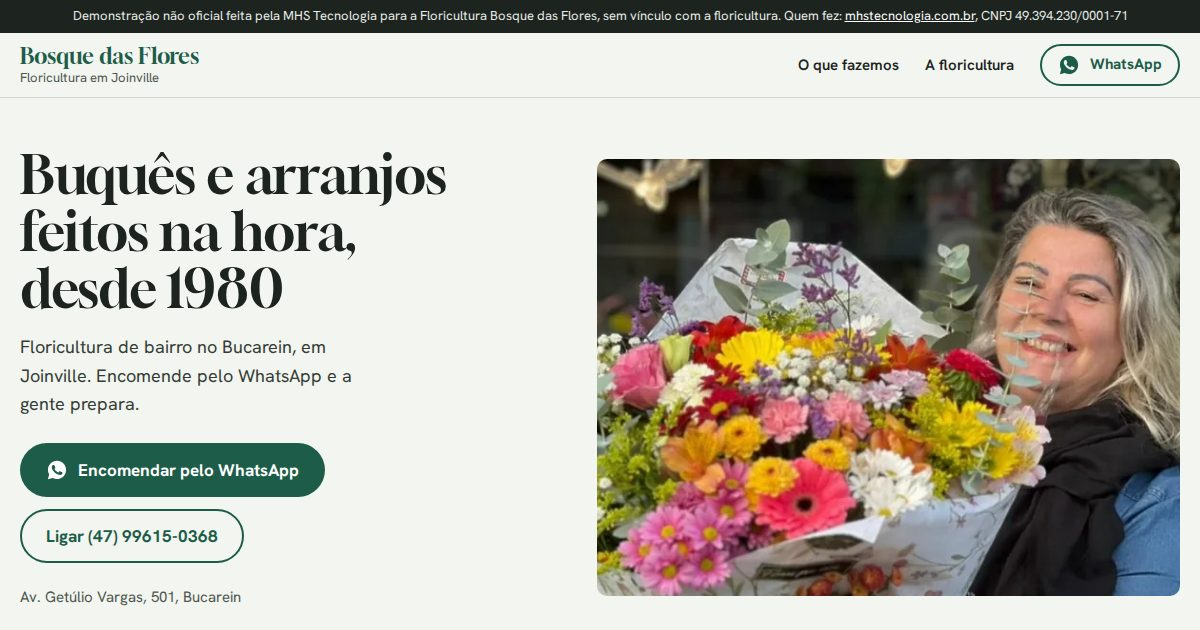
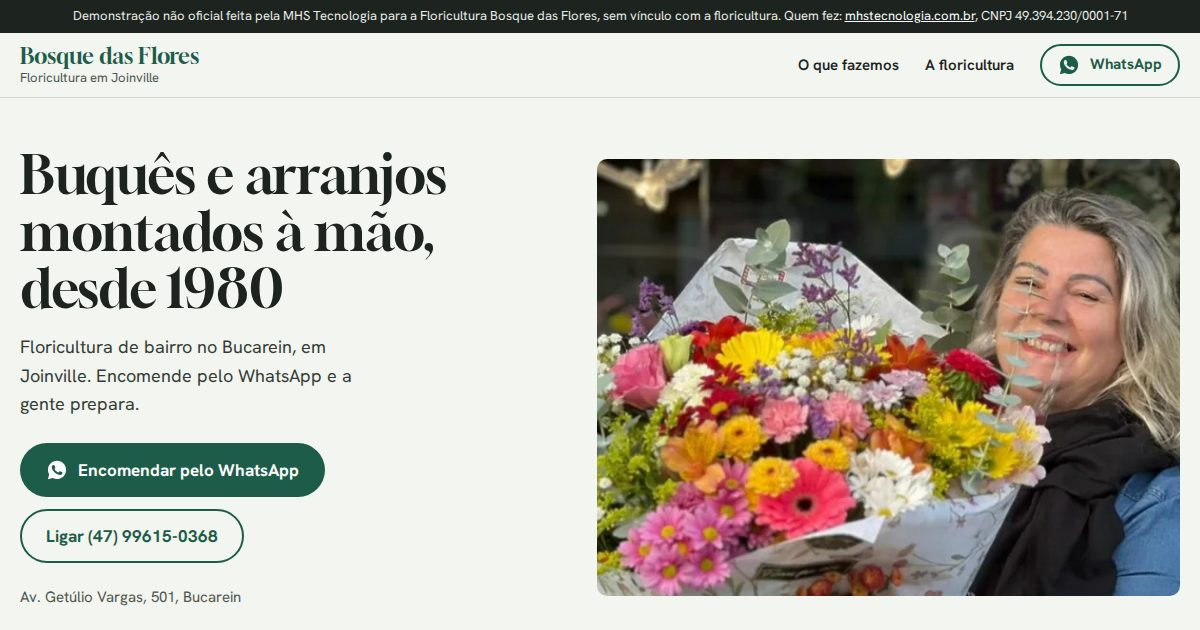
Previews: 65 ativos

Changed region(s): [[0.0, 0.3317, 0.37, 0.4222]]

diff --git a/bosque-das-flores-joinville-sc/index.html b/bosque-das-flores-joinville-sc/index.html
@@ -26,7 +26,7 @@
 <div class="aviso" role="note">Demonstração não oficial feita pela MHS Tecnologia para a Floricultura Bosque das Flores, sem vínculo com a floricultura. Quem fez: <a href="https://mhstecnologia.com.br/pt">mhstecnologia.com.br</a>, CNPJ 49.394.230/0001-71</div>
 <header class="cab">
   <div class="largura cab-in">
-    <a class="marca" href="#conteudo" aria-label="Floricultura Bosque das Flores, início"><b>Bosque das Flores</b><span>Floricultura em Joinville</span></a>
+    <a class="marca" href="#conteudo"><b>Bosque das Flores</b><span>Floricultura em Joinville</span></a>
     <nav aria-label="Principal">
       <a class="so-grande" href="#bancada">O que fazemos</a>
       <a class="so-grande" href="#casa">A floricultura</a>
@@ -41,7 +41,7 @@
       <img src="img/buque-florista-480.webp" srcset="img/buque-florista-480.webp 480w, img/buque-florista-800.webp 800w, img/buque-florista-1200.webp 1200w" sizes="(min-width: 900px) 640px, 100vw" width="1200" height="689" alt="Florista da Bosque das Flores sorrindo com um buquê grande de gérberas, rosas e margaridas" fetchpriority="high" decoding="async">
     </figure>
     <div class="hero-txt">
-      <h1>Buquês e arranjos feitos na hora, desde 1980</h1>
+      <h1>Buquês e arranjos montados à mão, desde 1980</h1>
       <p class="sub">Floricultura de bairro no Bucarein, em Joinville. Encomende pelo WhatsApp e a gente prepara.</p>
       <div class="acoes">
         <a class="btn btn-cheio" data-cta-topo href="https://wa.me/5547996150368?text=Ol%C3%A1%21%20Quero%20encomendar%20flores."><svg viewBox="0 0 24 24" aria-hidden="true" fill="currentColor"><path d="M12.04 2C6.58 2 2.13 6.45 2.13 11.91c0 1.75.46 3.45 1.32 4.95L2.05 22l5.25-1.38a9.9 9.9 0 0 0 4.74 1.21c5.46 0 9.9-4.45 9.9-9.91S17.5 2 12.04 2Zm5.8 14c-.24.68-1.42 1.31-1.95 1.36-.5.05-1.13.07-1.82-.11-.42-.13-.96-.31-1.65-.61-2.9-1.25-4.8-4.17-4.94-4.36-.14-.19-1.18-1.57-1.18-3 0-1.42.75-2.12 1.01-2.41.26-.29.57-.36.76-.36l.55.01c.18.01.41-.07.65.49.24.57.82 2 .89 2.15.07.14.12.31.02.5-.1.19-.14.31-.29.48-.14.17-.3.37-.43.5-.14.14-.29.3-.12.59.17.29.74 1.22 1.58 1.97 1.09.97 2 1.27 2.29 1.42.29.14.45.12.62-.07.17-.19.72-.84.91-1.13.19-.29.38-.24.65-.14.26.1 1.68.79 1.97.94.29.14.48.21.55.33.07.12.07.69-.17 1.37Z"/></svg><span>Encomendar pelo WhatsApp</span></a>
@@ -93,7 +93,7 @@
       <article class="peca">
         <img src="img/rosas-amarelas-480.webp" srcset="img/rosas-amarelas-480.webp 480w, img/rosas-amarelas-900.webp 900w" sizes="(min-width: 760px) 360px, 100vw" width="900" height="507" alt="Florista sorrindo segurando várias rosas amarelas embaladas uma a uma" loading="lazy" decoding="async">
         <h3>Rosas e buquês</h3>
-        <p>De uma rosa só, embalada com fita, até o buquê grande para entregar.</p>
+        <p>De uma rosa só, embalada com fita, até buquês maiores para presentear.</p>
       </article>
     </div>
     <div class="tambem">
@@ -115,7 +115,7 @@
     </figure>
     <div>
       <h2 id="t-casa">Mais de 45 anos de floricultura</h2>
-      <p class="intro">A Bosque das Flores abriu em junho de 1980. Hoje fica na Av. Getúlio Vargas, no Bucarein, e as floristas de avental verde montam tudo ali.</p>
+      <p class="intro">A Bosque das Flores abriu em junho de 1980. Hoje fica na Av. Getúlio Vargas, no Bucarein, e as floristas de avental verde montam os arranjos ali.</p>
       <blockquote>
         “Há mais de 45 anos perfumando e colorindo sua vida com flores, amor e dedicação.”
         <footer>Da apresentação da floricultura no Instagram</footer>
